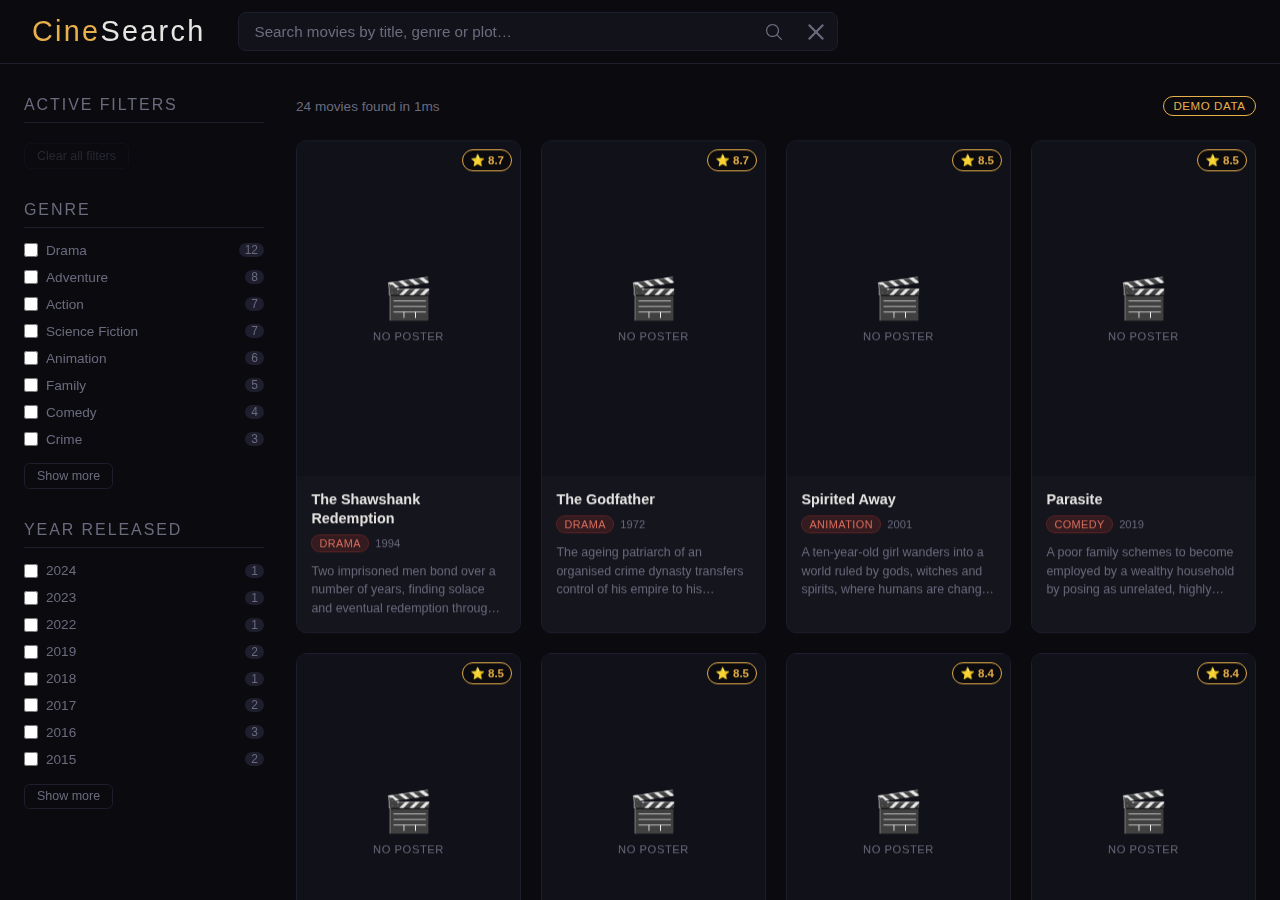
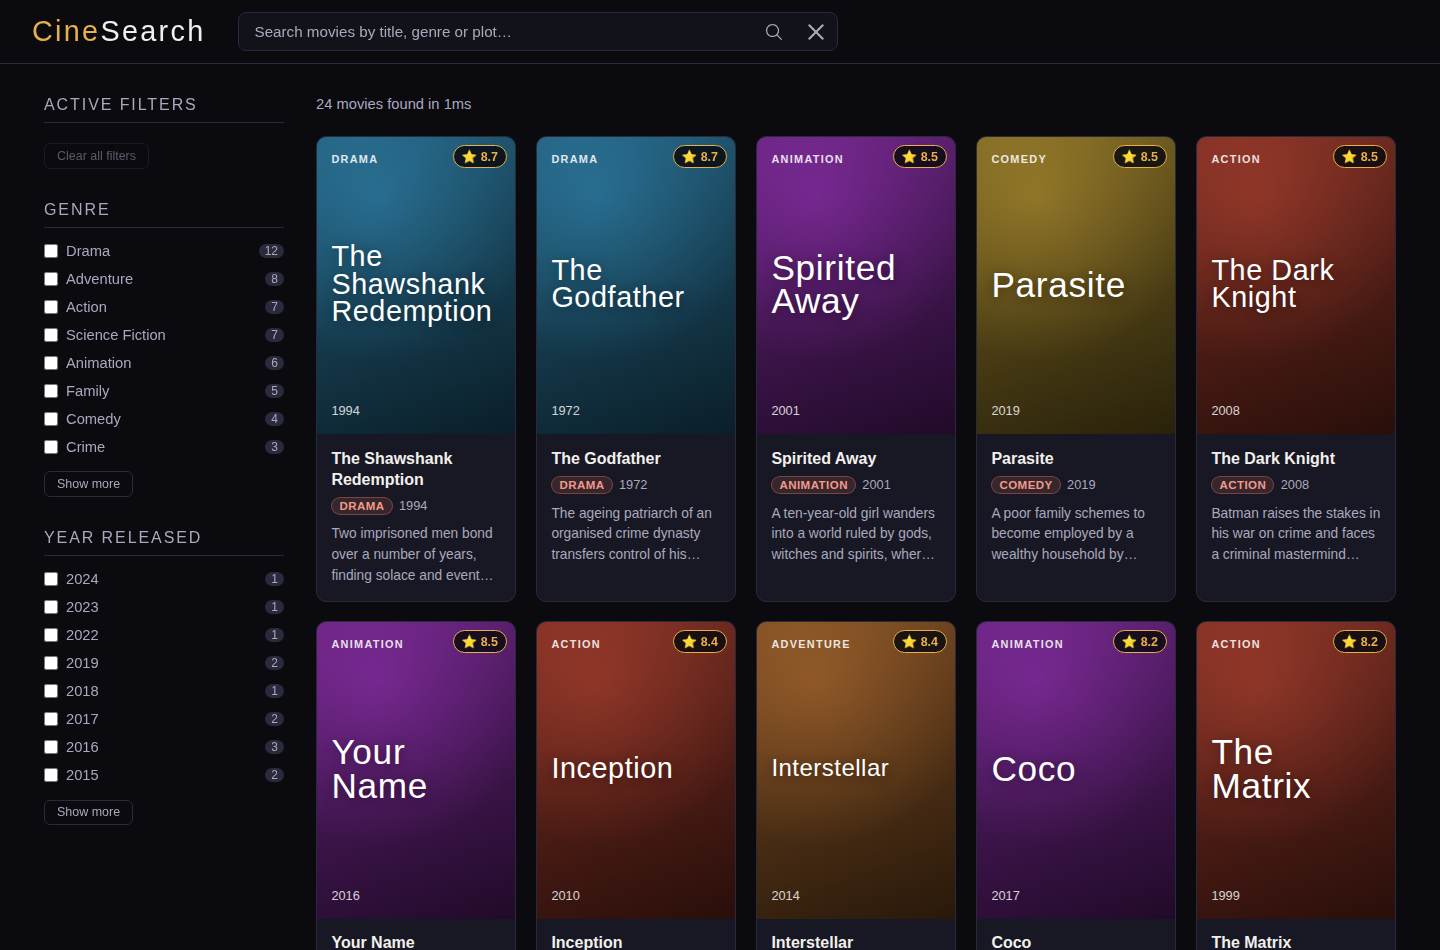
Fixed UI

diff --git a/public/css/styles.css b/public/css/styles.css
@@ -3,12 +3,12 @@
 :root {
   --bg:        #0a0a0f;
   --surface:   #12121a;
-  --border:    #1e1e2e;
+  --border:    #2a2a3d;
   --accent:    #e8b04b;
   --accent2:   #c0392b;
-  --text:      #e8e6e3;
-  --muted:     #6b6b7e;
-  --card-bg:   #16161f;
+  --text:      #f2f0ec;
+  --muted:     #a9a9bd;
+  --card-bg:   #181824;
   --sidebar-w: 240px;
 }
 
@@ -136,7 +136,7 @@ body {
   align-items: center;
   gap: 0.5rem;
   cursor: pointer;
-  font-size: 0.85rem;
+  font-size: 0.92rem;
   color: var(--muted);
   transition: color 0.15s;
   padding: 0.2rem 0;
@@ -186,11 +186,11 @@ body {
   align-items: center;
   gap: 1rem;
   margin-bottom: 1.5rem;
-  font-size: 0.85rem;
+  font-size: 0.92rem;
   color: var(--muted);
 }
 
-.ais-Stats { font-size: 0.85rem; color: var(--muted); }
+.ais-Stats { font-size: 0.92rem; color: var(--muted); }
 
 .ais-Hits-list {
   list-style: none;
@@ -242,28 +242,48 @@ body {
 
 .movie-card:hover .poster-wrap img { transform: scale(1.05); }
 
-.poster-fallback {
+.poster-art {
   width: 100%;
   height: 100%;
   display: flex;
   flex-direction: column;
-  align-items: center;
-  justify-content: center;
-  color: var(--muted);
-  font-size: 2.5rem;
-  gap: 0.5rem;
+  justify-content: space-between;
+  padding: 1rem 0.9rem;
+  background:
+    radial-gradient(circle at 30% 20%, hsl(var(--hue) 70% 55% / 0.35), transparent 60%),
+    linear-gradient(160deg, hsl(var(--hue) 55% 30%), hsl(var(--hue) 60% 10%));
+  color: #fff;
+  transition: transform 0.3s;
 }
 
-.poster-wrap img + .poster-fallback { display: none; }
-.poster-broken img { display: none; }
-.poster-broken img + .poster-fallback { display: flex; }
+.movie-card:hover .poster-art { transform: scale(1.04); }
 
-.poster-fallback span {
-  font-size: 0.7rem;
-  letter-spacing: 0.05em;
+.poster-art-genre {
+  font-size: 0.68rem;
+  font-weight: 600;
+  letter-spacing: 0.12em;
   text-transform: uppercase;
-  font-family: 'DM Sans', sans-serif;
+  opacity: 0.85;
 }
+
+.poster-art-title {
+  font-family: 'Bebas Neue', sans-serif;
+  font-size: 2.1rem;
+  line-height: 0.95;
+  letter-spacing: 0.02em;
+  text-shadow: 0 2px 12px rgba(0, 0, 0, 0.45);
+  overflow-wrap: break-word;
+}
+
+.poster-art-year {
+  font-size: 0.8rem;
+  font-weight: 500;
+  opacity: 0.8;
+}
+
+.poster-wrap img + .poster-art { display: none; }
+.poster-broken img { display: none; }
+.poster-broken img + .poster-art { display: flex; }
 
 .rating-pill {
   position: absolute;
@@ -273,9 +293,9 @@ body {
   backdrop-filter: blur(6px);
   border: 1px solid var(--accent);
   color: var(--accent);
-  font-size: 0.72rem;
+  font-size: 0.78rem;
   font-weight: 600;
-  padding: 3px 7px;
+  padding: 3px 8px;
   border-radius: 20px;
   display: flex;
   align-items: center;
@@ -291,7 +311,7 @@ body {
 }
 
 .card-title {
-  font-size: 0.9rem;
+  font-size: 1rem;
   font-weight: 600;
   color: var(--text);
   line-height: 1.3;
@@ -316,11 +336,11 @@ body {
 }
 
 .genre-chip {
-  font-size: 0.68rem;
-  font-weight: 500;
-  background: rgba(192,57,43,0.18);
-  color: #e07060;
-  border: 1px solid rgba(192,57,43,0.3);
+  font-size: 0.72rem;
+  font-weight: 600;
+  background: rgba(224,112,96,0.16);
+  color: #f29a8a;
+  border: 1px solid rgba(224,112,96,0.4);
   padding: 2px 7px;
   border-radius: 20px;
   text-transform: uppercase;
@@ -328,12 +348,12 @@ body {
 }
 
 .year-chip {
-  font-size: 0.7rem;
+  font-size: 0.8rem;
   color: var(--muted);
 }
 
 .card-overview {
-  font-size: 0.78rem;
+  font-size: 0.86rem;
   color: var(--muted);
   line-height: 1.5;
   display: -webkit-box;
@@ -436,11 +456,14 @@ body {
 }
 
 .ais-ClearRefinements-button:hover { border-color: var(--accent2); color: var(--accent2); }
-.ais-ClearRefinements-button[disabled] { opacity: 0.3; pointer-events: none; }
+.ais-ClearRefinements-button[disabled] { opacity: 0.5; pointer-events: none; }
 
 ::-webkit-scrollbar { width: 6px; }
 ::-webkit-scrollbar-track { background: var(--bg); }
 ::-webkit-scrollbar-thumb { background: var(--border); border-radius: 3px; }
+
+/* ── FILTER TOGGLE (phones only) ── */
+.filters-toggle { display: none; }
 
 /* ── STATUS MESSAGES ── */
 .demo-badge {
@@ -466,7 +489,7 @@ body {
 .search-error small {
   display: block;
   margin-top: 1rem;
-  font-size: 0.85rem;
+  font-size: 0.92rem;
   color: var(--muted);
 }
 
@@ -489,5 +512,24 @@ body {
     position: static;
     max-height: none;
   }
-  .ais-Hits-list { grid-template-columns: repeat(2, 1fr); }
+  .ais-Hits-list { grid-template-columns: repeat(2, 1fr); gap: 0.9rem; }
+  .filters-toggle {
+    display: flex;
+    align-items: center;
+    justify-content: space-between;
+    padding: 0.7rem 1rem;
+    margin-bottom: 1rem;
+    border: 1px solid var(--border);
+    border-radius: 8px;
+    background: var(--surface);
+    color: var(--text);
+    font-weight: 600;
+    cursor: pointer;
+    list-style: none;
+  }
+  .filters-toggle::-webkit-details-marker { display: none; }
+  .filters-toggle::after { content: '▾'; color: var(--accent); }
+  .filters[open] .filters-toggle::after { content: '▴'; }
+  .poster-art { padding: 0.75rem 0.7rem; }
+  .poster-art-title { transform: scale(0.8); transform-origin: left center; }
 }

diff --git a/public/js/app.js b/public/js/app.js
@@ -83,10 +83,40 @@
       : hit.overview;
   }
 
-  // The fallback is always rendered after the <img>; CSS only shows it when the
-  // image is missing or fails to load (the card gets .poster-broken).
-  function posterFallback(html) {
-    return html`<div class="poster-fallback">🎬<span>No Poster</span></div>`;
+  // Movies without a poster image get a generated one: a gradient in the
+  // colour of their first genre with the title set in large type. It is always
+  // rendered after the <img>, and CSS only shows it when there is no image or
+  // the image fails to load (the card then gets .poster-broken).
+  const GENRE_HUES = {
+    Action: 8, Adventure: 28, Animation: 285, Comedy: 45, Crime: 215,
+    Drama: 200, Family: 150, Fantasy: 265, History: 35, Horror: 350,
+    Music: 310, Mystery: 240, Romance: 330, 'Science Fiction': 185,
+    Thriller: 255, War: 95,
+  };
+
+  function posterHue(hit) {
+    const genre = firstGenre(hit);
+    if (genre in GENRE_HUES) return GENRE_HUES[genre];
+    let hash = 0;
+    for (const char of String(hit.title || '')) hash = (hash * 31 + char.charCodeAt(0)) % 360;
+    return hash;
+  }
+
+  // Shrink long titles so whole words fit on the poster.
+  function posterTitleSize(title) {
+    const longestWord = Math.max(...String(title || '').split(/\s+/).map((w) => w.length));
+    const length = String(title || '').length;
+    if (longestWord > 10 || length > 24) return '1.5rem';
+    if (longestWord > 8 || length > 14) return '1.8rem';
+    return '2.2rem';
+  }
+
+  function posterArt(hit, html) {
+    return html`<div class="poster-art" style=${`--hue: ${posterHue(hit)}`} aria-hidden="true">
+      <span class="poster-art-genre">${firstGenre(hit)}</span>
+      <span class="poster-art-title" style=${`font-size: ${posterTitleSize(hit.title)}`}>${hit.title}</span>
+      <span class="poster-art-year">${releaseYear(hit)}</span>
+    </div>`;
   }
 
   function poster(hit, html) {
@@ -139,7 +169,7 @@
           <article class="movie-card">
             <div class="poster-wrap">
               ${poster(hit, html)}
-              ${posterFallback(html)}
+              ${posterArt(hit, html)}
               ${hit.vote_average
                 ? html`<div class="rating-pill">⭐ ${Number(hit.vote_average).toFixed(1)}</div>`
                 : ''}
@@ -199,6 +229,11 @@
       scrollTo: '.results',
     }),
   ]);
+
+  // On small screens the filters start collapsed so results are visible first.
+  if (window.matchMedia('(max-width: 700px)').matches) {
+    document.getElementById('filters').open = false;
+  }
 
   search.start();
 })();

diff --git a/public/index.html b/public/index.html
@@ -23,6 +23,8 @@
   <main class="page">
 
     <aside class="sidebar" aria-label="Filters">
+      <details id="filters" class="filters" open>
+      <summary class="filters-toggle">Filters</summary>
       <div class="filter-block">
         <h2 class="filter-title">Active Filters</h2>
         <div id="current-refinements"></div>
@@ -36,6 +38,7 @@
         <h2 class="filter-title">Year Released</h2>
         <div id="year-filter"></div>
       </div>
+      </details>
     </aside>
 
     <section class="results" aria-label="Search results">
